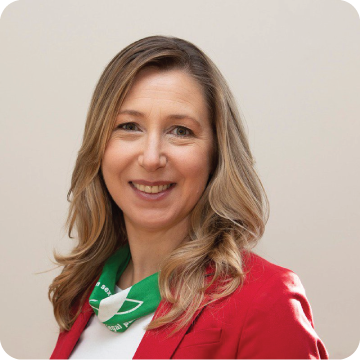
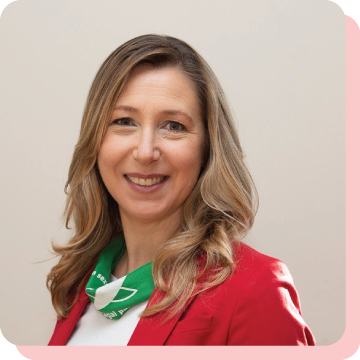
nuevas imagenes con bordes del color del partido + navbar

diff --git a/app/page.tsx b/app/page.tsx
@@ -1,5 +1,5 @@
 'use client'
-import { useState, useEffect, useRef } from "react";
+import { useState} from "react";
 import Candidate from "./components/Candidate";
 import Image, { StaticImageData } from "next/image";
 import Icono_Milei from '../public/Icono_Milei.jpg';
@@ -7,6 +7,8 @@ import Icono_Bullrich from '../public/Icono_Bullrich.jpg';
 import Icono_Massa from '../public/Icono_Massa.jpg';
 import Icono_Bregman from '../public/Icono_Bregman.png';
 import Icono_Schiaretti from '../public/Icono_Schiaretti.png';
+import Logo from '../public/Logo.png';
+import {MdExpandMore} from "react-icons/md";
 
 
 const mileiTheme = {
@@ -150,10 +152,21 @@ export default function Hub(){
 
 
     return(
-        <main className="container">
-          <div className=" text-center mb-3 flex flex-row justify-around p-4  border-b">
-            <button className="border-solid border-2 p-1 ">Crea tu Propio Prode</button>
-            <h1>Hub</h1>
+        <main className="">
+          <div className=" text-center  mb-3 flex flex-row py-1 justify-around gap-x-1 border-b bg-teal-500 text-white w-full items-center">
+            {/* <div className=" flex">
+              <h1 className="text-3xl text-">Prode</h1>
+              <h1 className="text-3xl">Arg</h1>
+            </div> */}
+            
+              <Image src={Logo} alt="Prode Arg" style={{maxWidth : '35% ', height : 'auto' }}/>
+            
+            <button className="text-sm border-solid border-2 p-1 rounded-md h-8">Crea el tuyo</button>
+            <div className=" p-2 flex items-center rounded-md justify-around bg-juan h-8 " >
+              <button className=" ">Prode Juan </button>
+              <MdExpandMore fill='#FFFFFF' size='28'/>
+            </div>
+           
           </div>
             <div className="flex flex-col gap-4    p-2">
               
@@ -163,9 +176,6 @@ export default function Hub(){
                 )
               }
             )}  
-            </div>
-            <div>
-              <h1 className=" text-red-700 text-center">Te Pasaste por 15%</h1>
             </div>
             <div className="flex w-full  justify-center items-center">
               <button className="border-solid border-2 p-1">Enviar</button>

diff --git a/app/components/ScrollerFixed.tsx b/app/components/ScrollerFixed.tsx
@@ -73,28 +73,28 @@ export default function ScrollerFixed({theme, votes,candidateId, initialVotes} :
 
     function MinusButton({setter, numberPart} : { setter : Dispatch<SetStateAction<voteDouble>>,numberPart : numberPart}){
         return(
-            <button className="px-8 py-1 border-2 rounded-md" onClick={e => handleMinusButton(setter, numberPart) } style={{borderColor : theme.color}}>-</button>
+            <button className="px-8 py-1 border-2 rounded-md w-full" onClick={e => handleMinusButton(setter, numberPart) } style={{borderColor : theme.color}}>-</button>
         )
     }
     function PlusButton({ setter, numberPart} : { setter : Dispatch<SetStateAction<voteDouble>>, numberPart : numberPart}){
         return(
-            <button className="px-8 py-1 border-2 rounded-md" onClick={e => handlePlusButton(setter, numberPart)} style={{borderColor : theme.color}}>+</button>
+            <button className="px-8 py-1 border-2 rounded-md w-full" onClick={e => handlePlusButton(setter, numberPart)} style={{borderColor : theme.color}}>+</button>
         )
     }
 
     return (
         <div className="flex flex-grow justify-center items-center text-xl" style={{...theme}}>
-            <div className="p-1">
+            <div className="p-1 flex-grow">
             <PlusButton  setter={setCurrentSelected} numberPart={numberPart.big}/>
-            <p className="p-4">{currentSelected.big}</p>
+            <p className="p-4 text-3xl">{currentSelected.big}</p>
             <MinusButton  setter={setCurrentSelected} numberPart={numberPart.big}/>
             </div>
             <div className="">
-            <p className="m-0 text-xl">,</p>
+            <p className="m-0 text-3xl">,</p>
             </div>
-            <div className="p-1">
+            <div className="p-1 flex-grow">
             <PlusButton setter={setCurrentSelected} numberPart={numberPart.small}/>
-            <p  className="p-4">{currentSelected.small-(currentSelected.small%1)}</p>
+            <p  className="p-4 text-3xl">{currentSelected.small-(currentSelected.small%1)}</p>
             <MinusButton setter={setCurrentSelected} numberPart={numberPart.small}/>
             </div>
         </div>

diff --git a/app/components/Candidate.tsx b/app/components/Candidate.tsx
@@ -11,8 +11,8 @@ export default function Candidate({CandidateName,ImageUrl, theme, votes, candida
             
             <div className='flex flex-row justify-around p-2 '>
                 
-                <Image className='border-b-7' src={ImageUrl} alt={CandidateName} style={{maxWidth:'100%', height : '100%', borderBottomColor : theme.color }}/>
-                <div className=' '>
+                <Image className='border-b-7' src={ImageUrl} alt={CandidateName} style={{maxWidth:'50%', height : 'auto', borderBottomColor : theme.color }}/>
+                <div className=' flex-grow'>
                 <h1>{CandidateName}</h1>
                 <ScrollerFixed theme={theme} votes={votes} candidateId={candidateId} initialVotes={initialVotes}/>
                 </div>

diff --git a/tailwind.config.ts b/tailwind.config.ts
@@ -9,7 +9,10 @@ const config: Config = {
   theme: {
     extend: {
       colors: {
-        milei : '#FF00C8'
+        juan : '#a7dbd5'
+      },
+      padding : {
+        '3' : '0.75rem',
       },
       backgroundImage: {
         'gradient-radial': 'radial-gradient(var(--tw-gradient-stops))',
